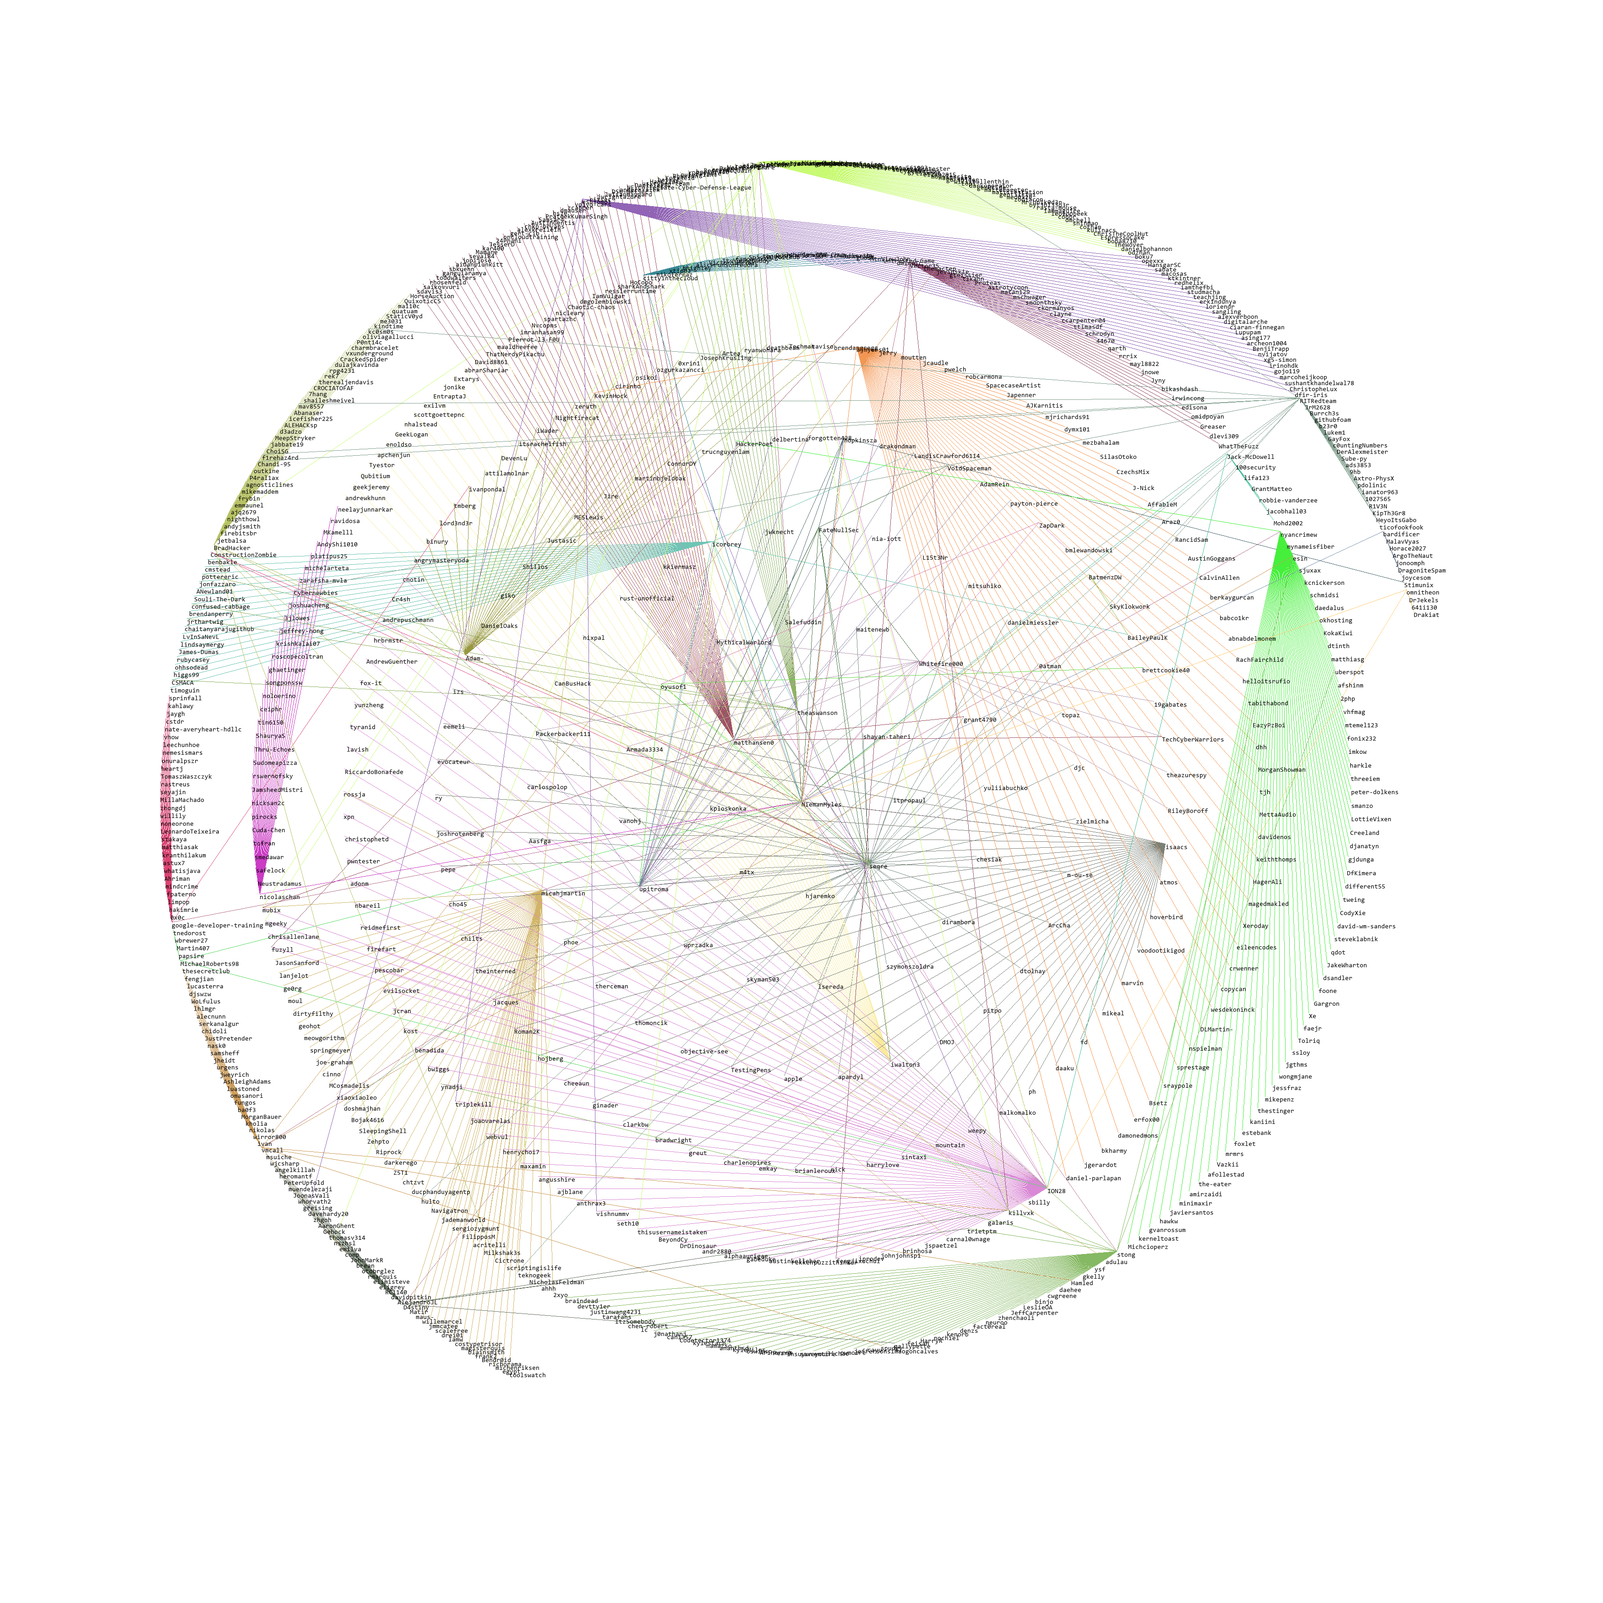
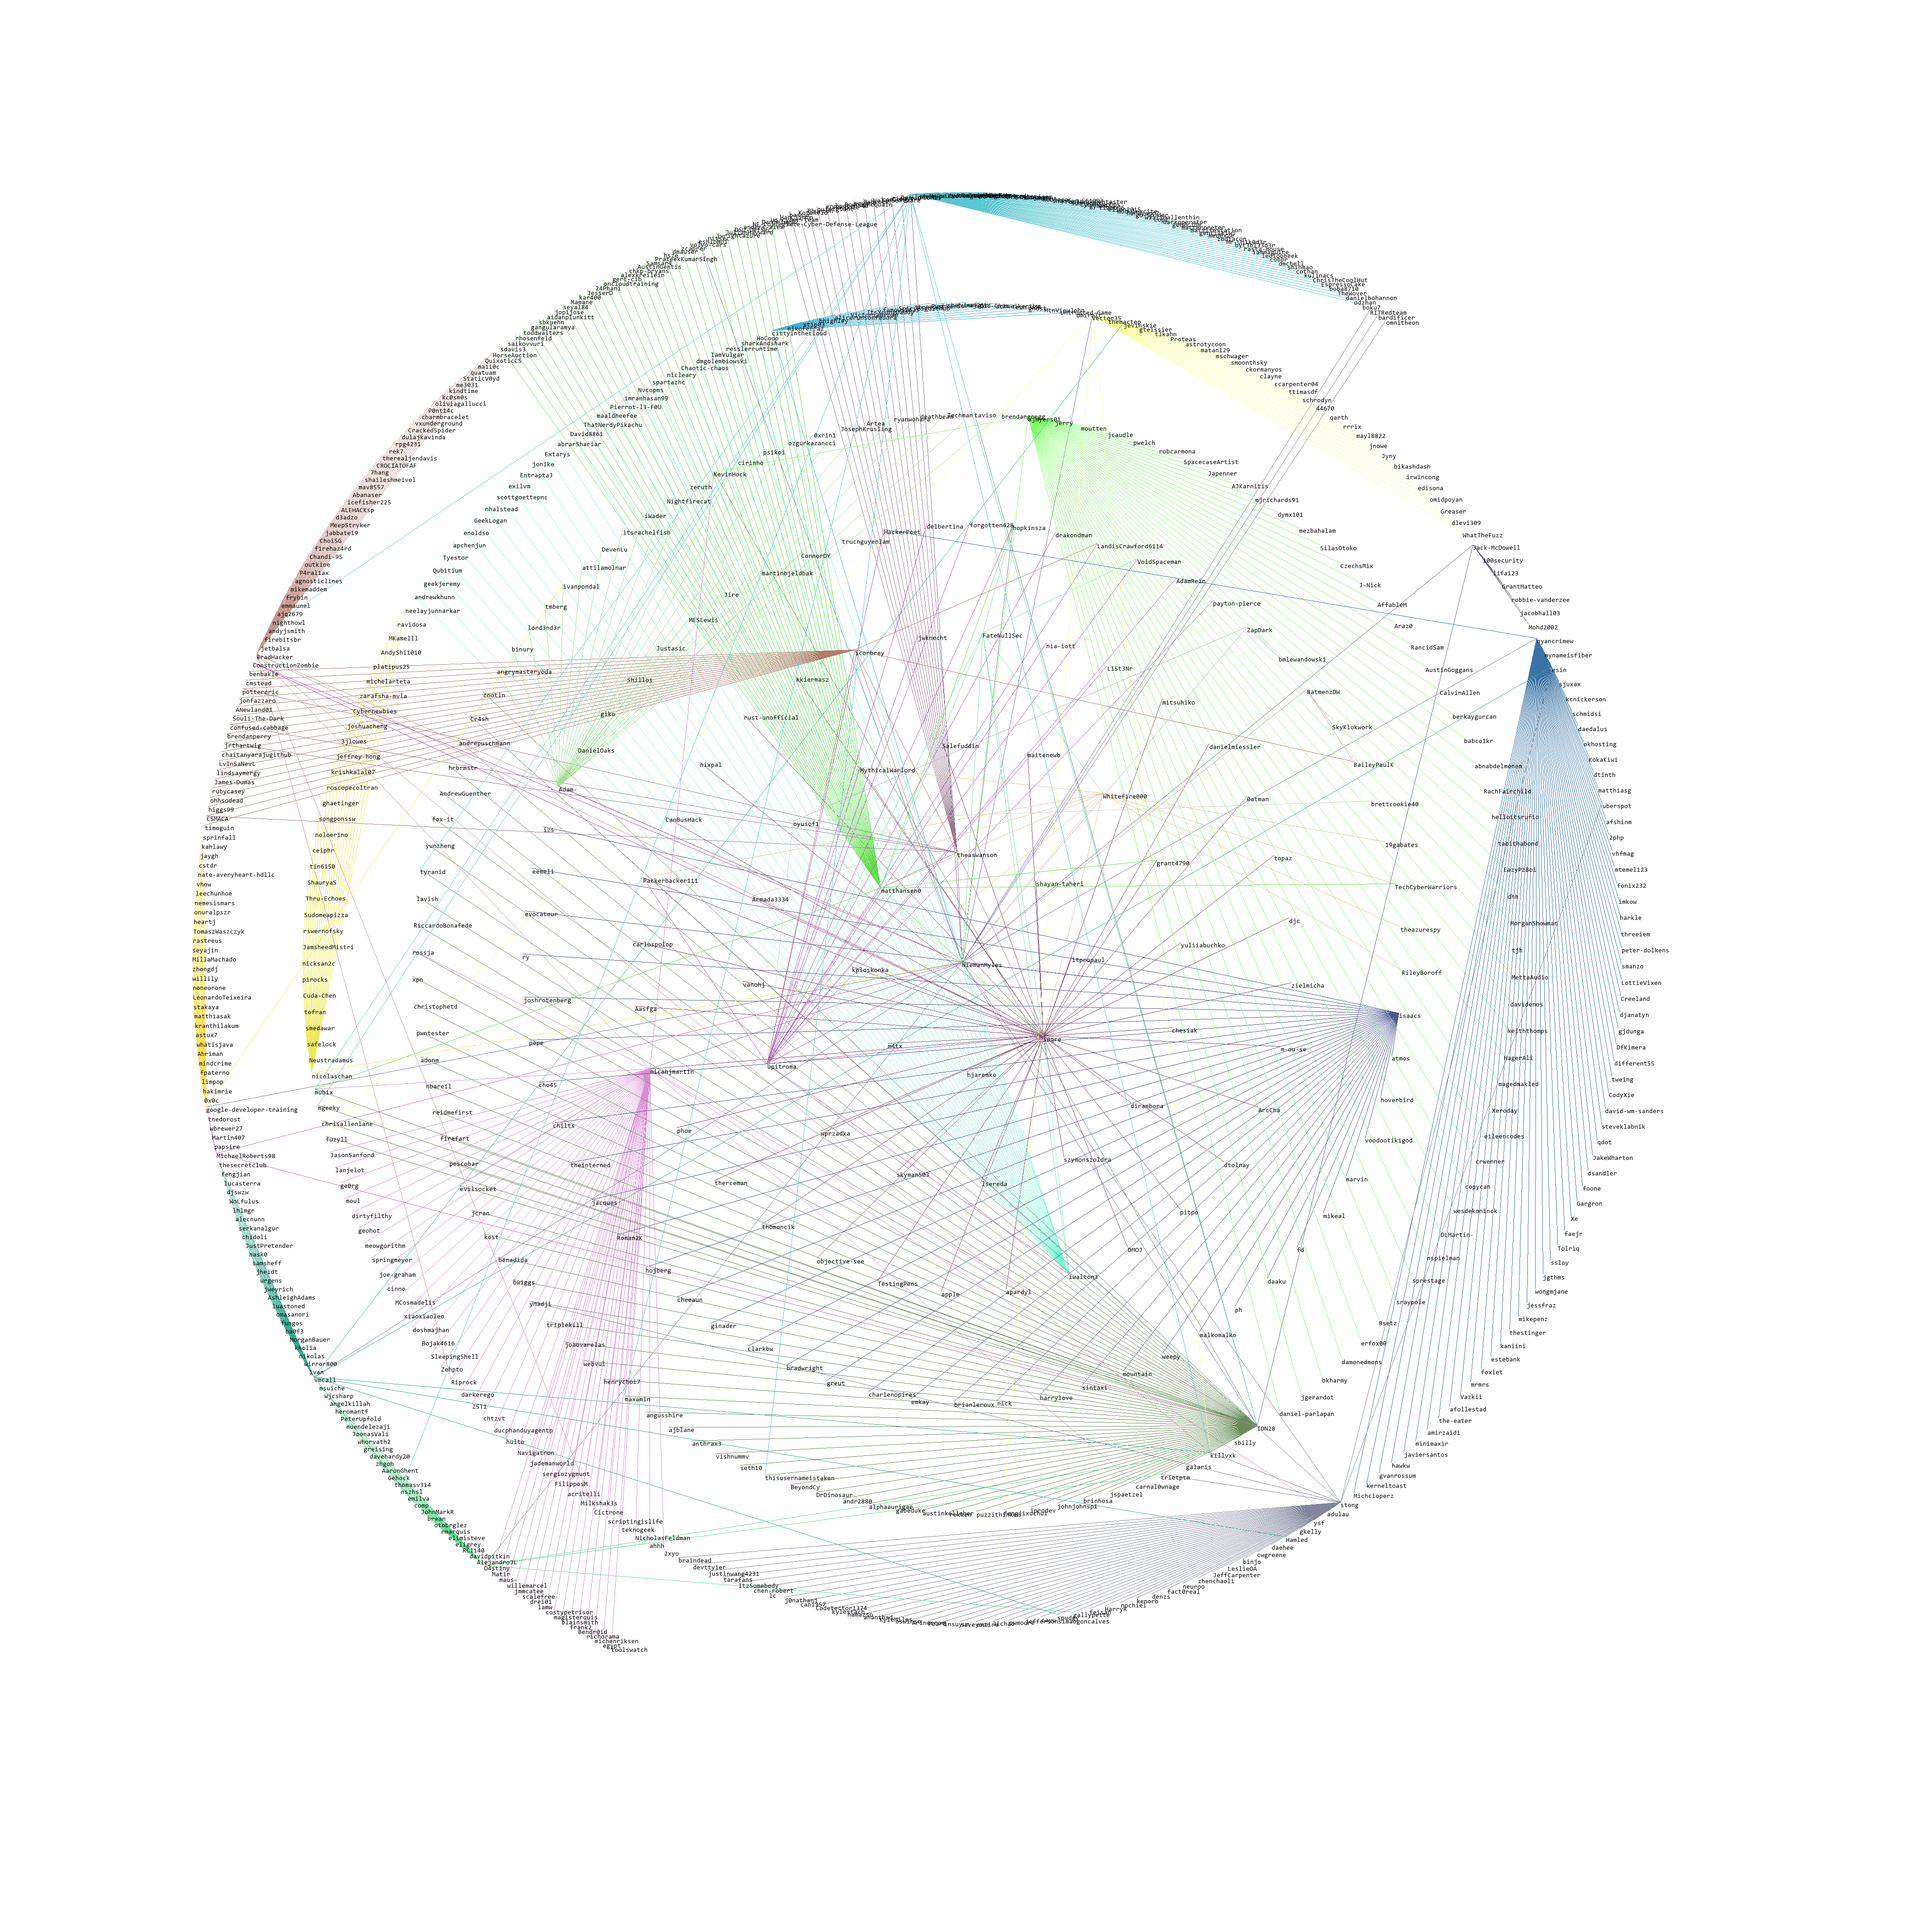
Add sample diagram

diff --git a/diagram.py b/diagram.py
@@ -2,7 +2,7 @@ from PIL import Image, ImageFont, ImageDraw
 from math import sin, cos, pi
 import random
 
-RADIUS = 300
+RADIUS = 240
 ITEMS_PER_RING = 8
 
 
